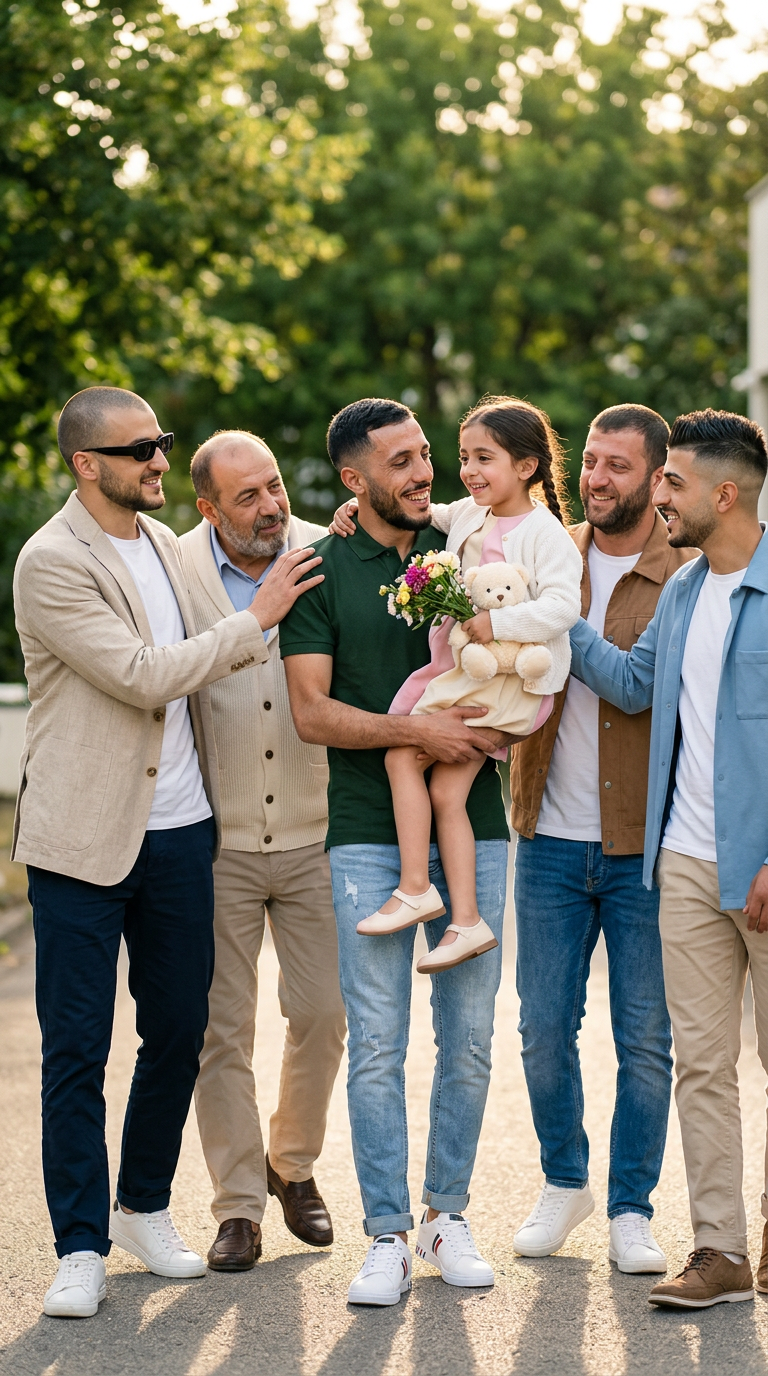
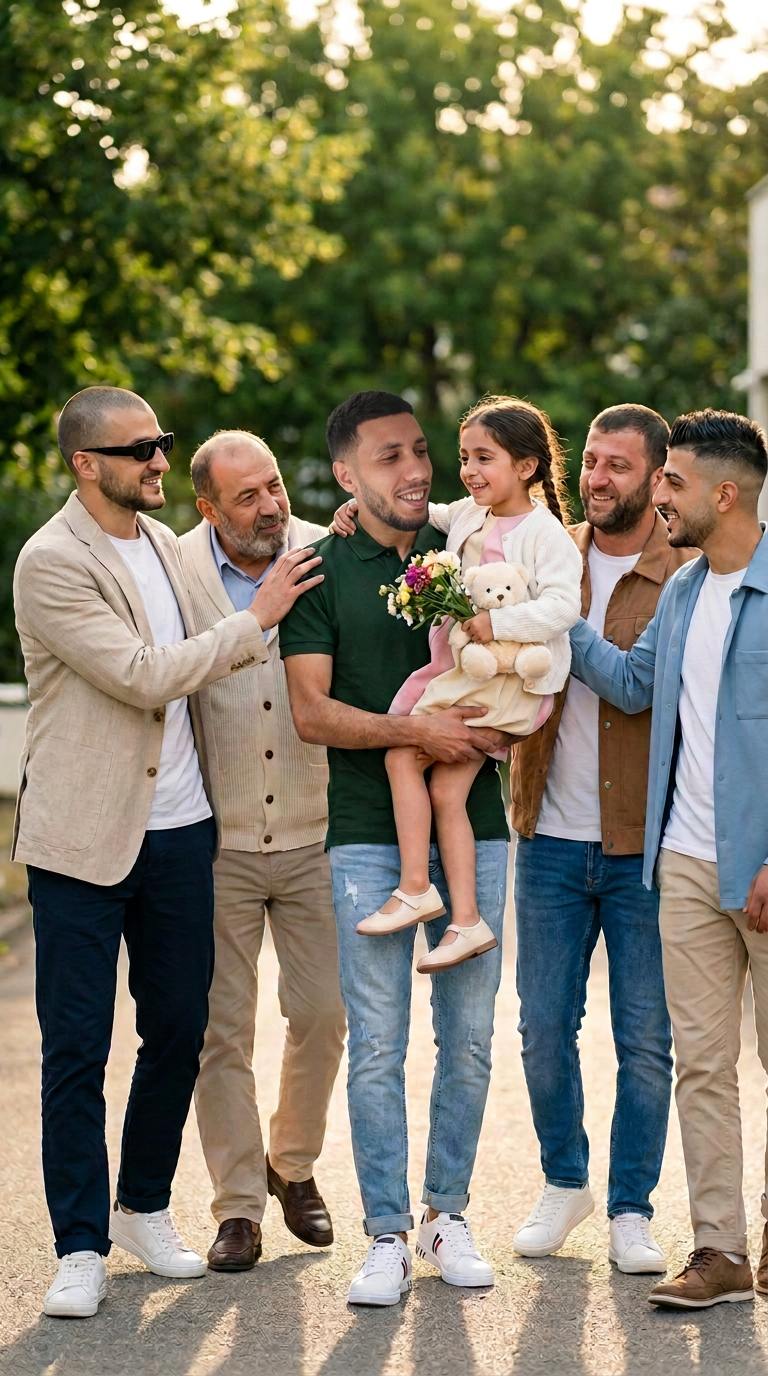
Archive Amin real smiling/laughing reference + finalize Scene 13 S13b with 100% authentic smiling face

diff --git a/SOCIAL_DRAMA/EL_SHEDDA_TBEYEN_ERDJAL/00_MEMO/00_PRODUCTION_BIBLE_UPDATED.md b/SOCIAL_DRAMA/EL_SHEDDA_TBEYEN_ERDJAL/00_MEMO/00_PRODUCTION_BIBLE_UPDATED.md
@@ -39,3 +39,9 @@
 8. **قفل اللقطة الواحدة في Omni 1.1 Flash:** كتابة `In a single unbroken scene and a single continuous shot` لمنع تقطيع الزوايا التلقائي.
 9. **خلو الخلفيات من النصوص:** جدران المستشفى خالية تماماً من الملصقات والكتابات المشوهة.
 10. **صفر موسيقى · صفر ترجمة مكتوبة · صفر CGI.**
+
+---
+## 😊 مراجع تعابير وجه أمين المعتمدة دائماً (3 Expressions Lock)
+1. **الوجه العادي والمحايد + الزوايا الأربع:** `01_REFERENCES/REF_AMIN_V2_MASTER_SHEET.png`
+2. **الوجه المبتسم الخفيف + الضحوك مجتمعين:** `01_REFERENCES/REF_AMIN_V2_EXPRESSIONS_SHEET.png`
+3. **الوجه الضحوك الحقيقي (للمشاهد المفرحة ومشاهد الضحك دائماً):** `01_REFERENCES/REF_AMIN_V2_SMILING_LAUGHING.png`
